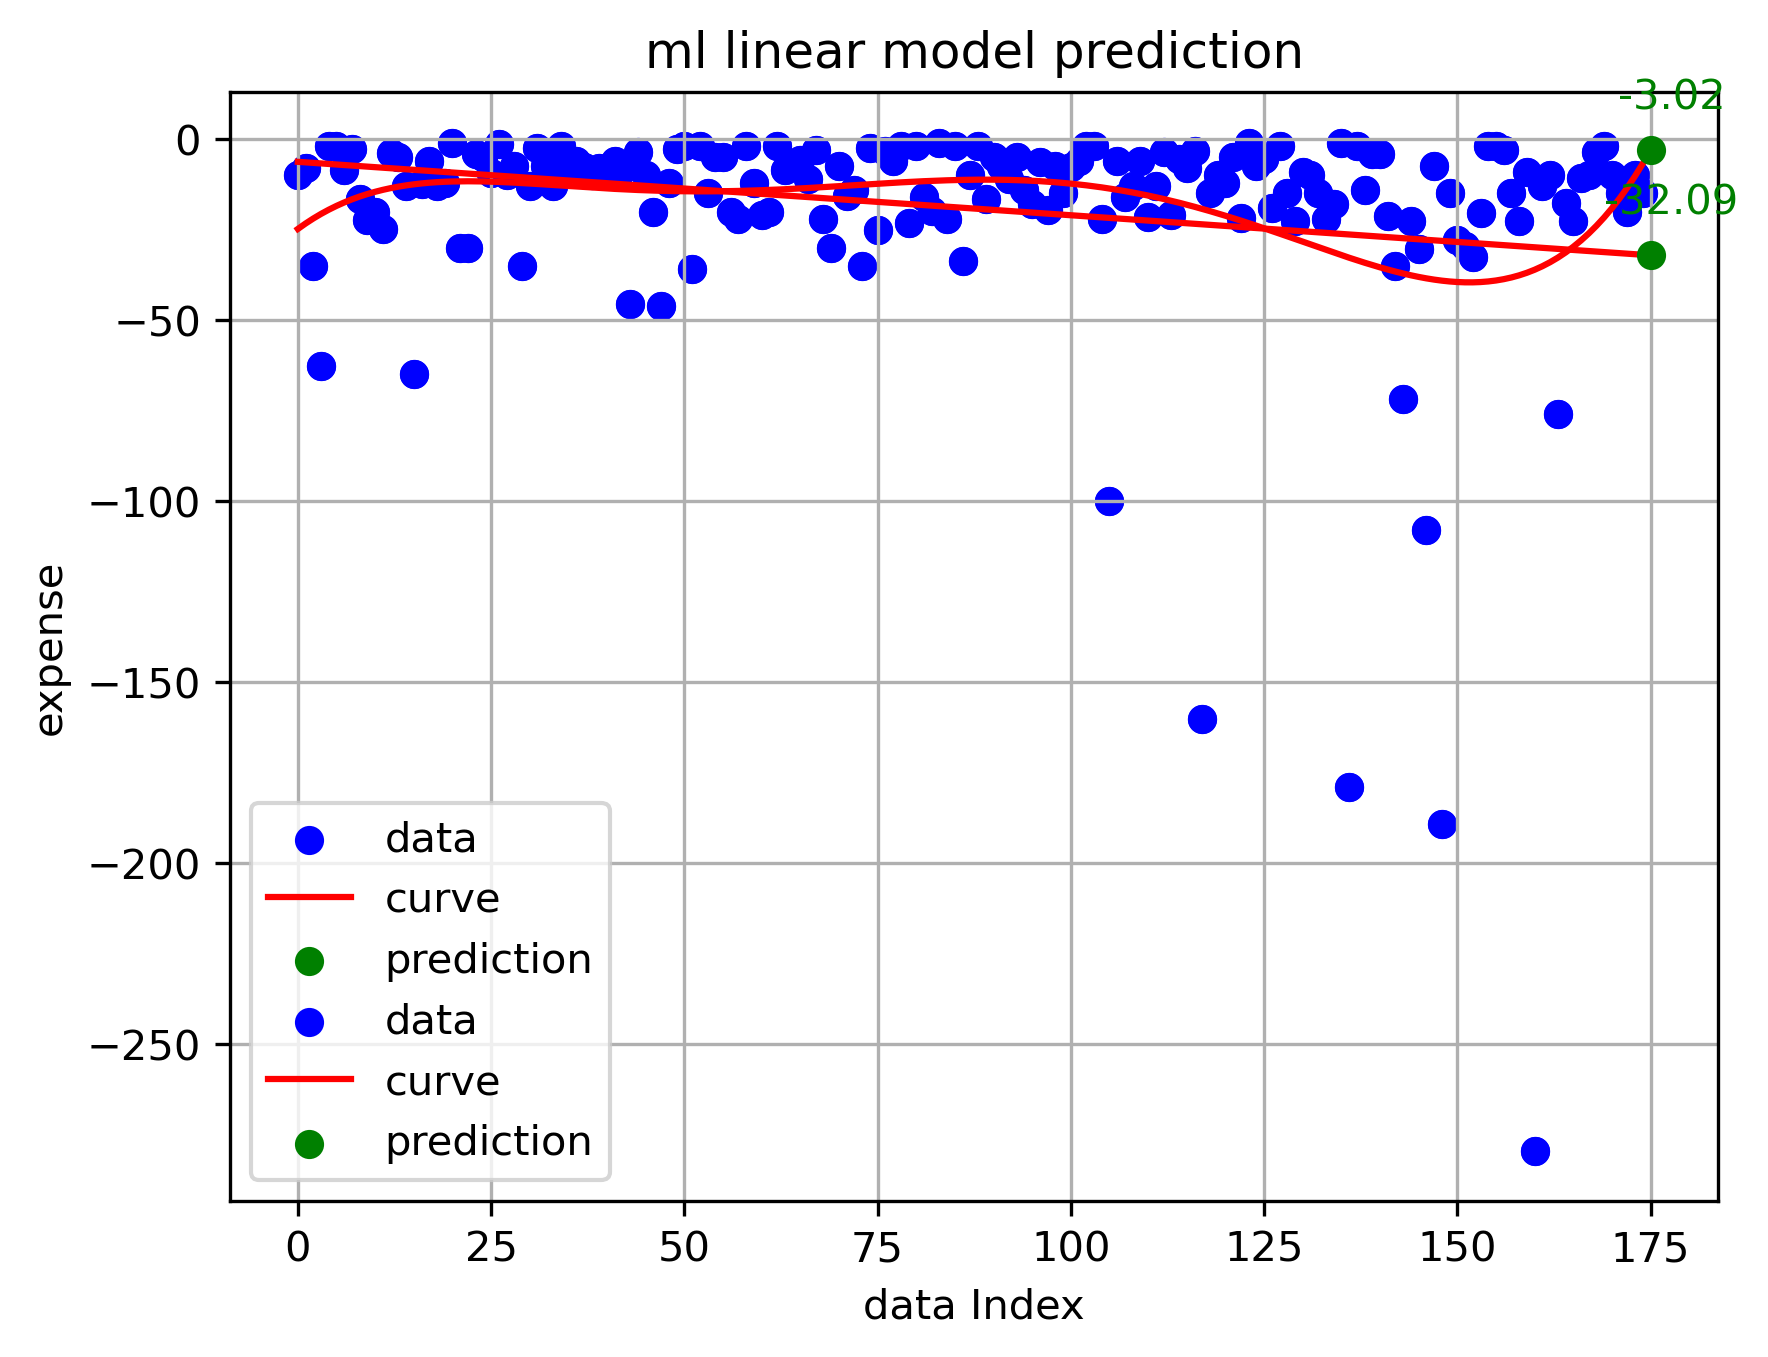
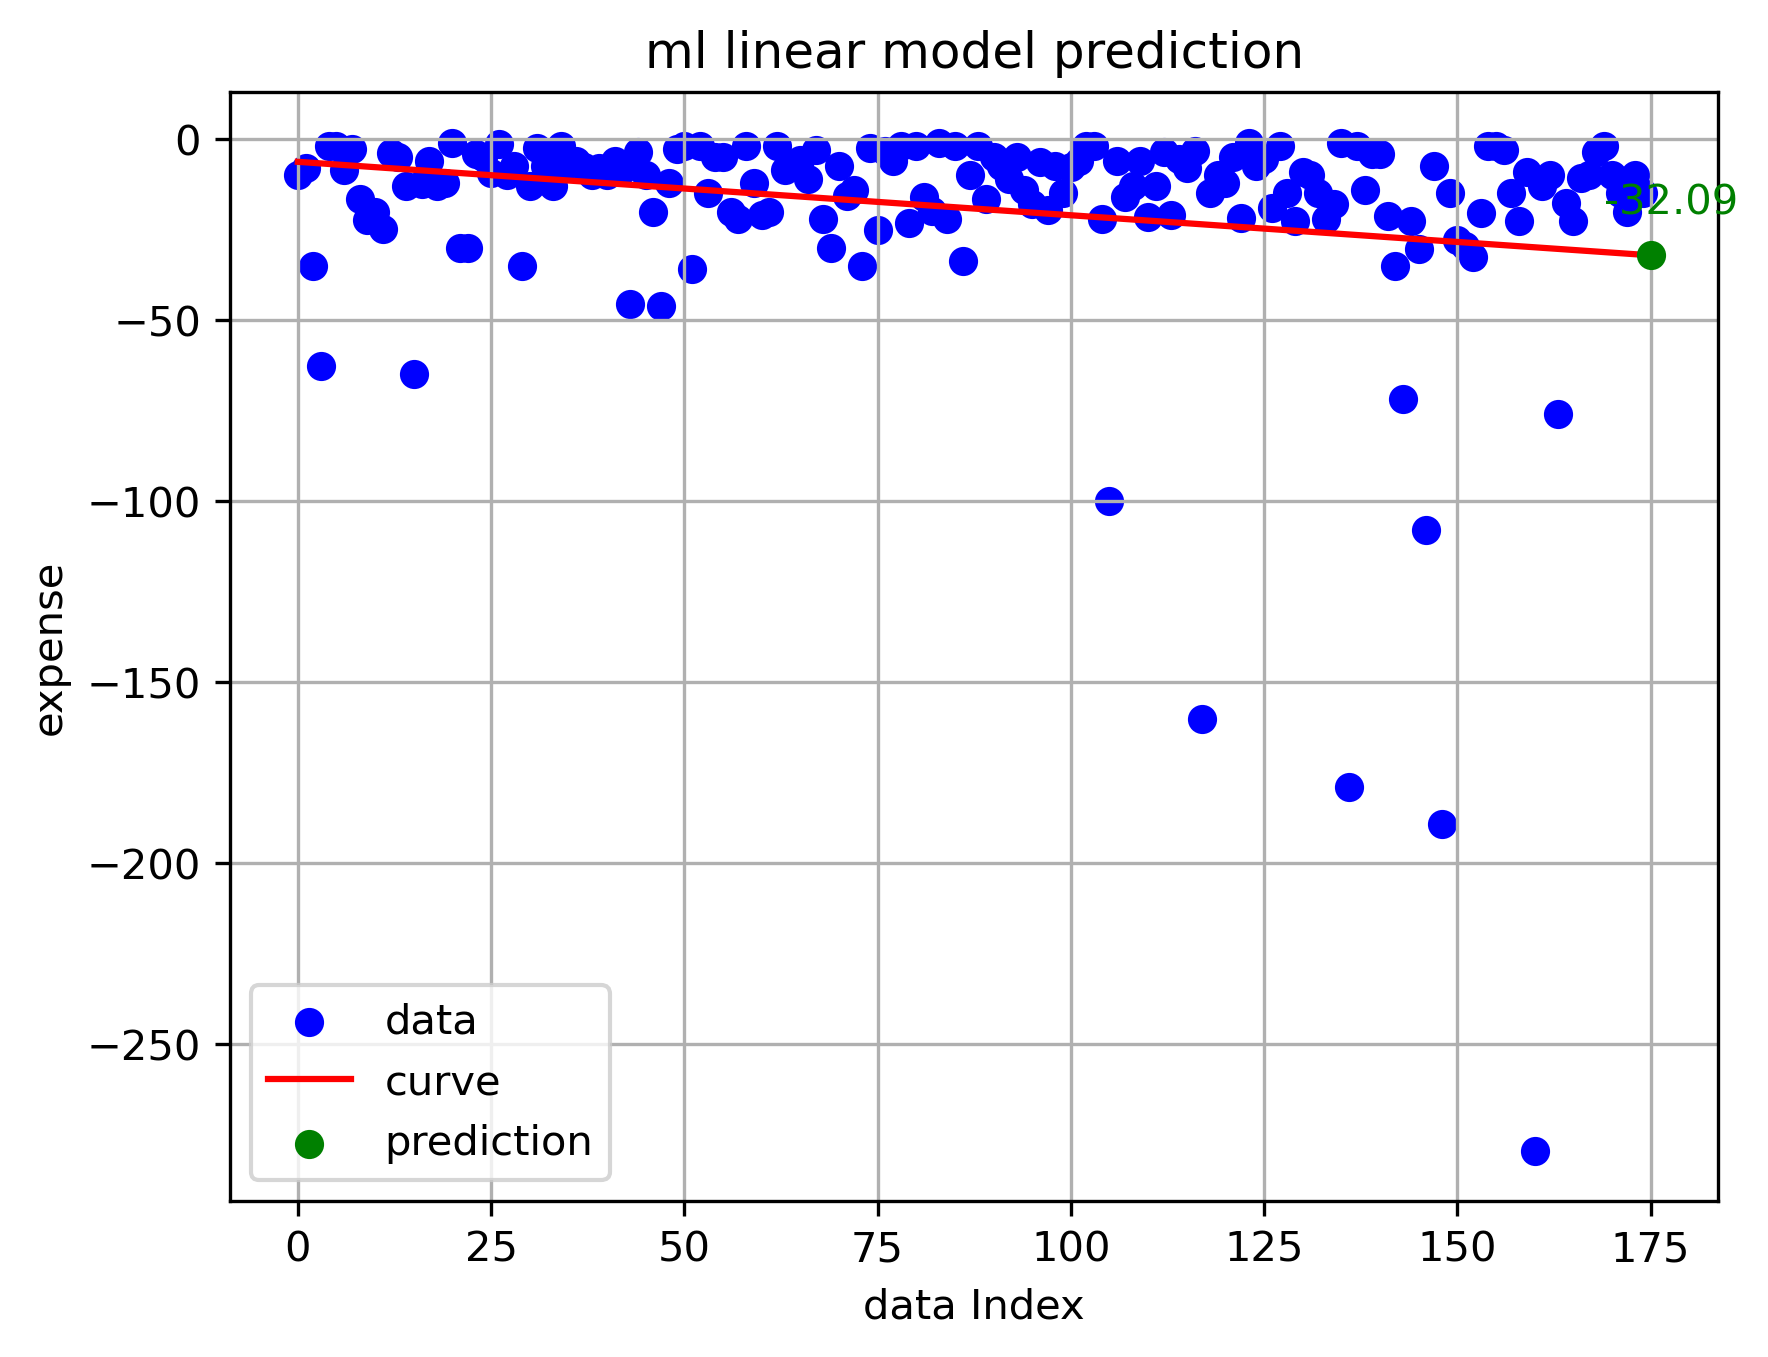
fix: the data overlay issue in the chart

diff --git a/ExpenseAnalysis/expenseAnalysis.py b/ExpenseAnalysis/expenseAnalysis.py
@@ -52,6 +52,9 @@ try:
 
             print(f"多项式拟合预测的下一个消费金额: {next_value:.2f}")
 
+            # **创建新的图表实例**
+            # plt.figure()
+
             # 标注预测值在图表中
             plt.scatter([next_index], [next_value], color='green', label='prediction', zorder=5)
             plt.annotate(f"{next_value:.2f}",
@@ -110,6 +113,9 @@ try:
 
             print(f"ml_lr预测的下一个消费金额: {next_value:.2f}")
 
+            # **创建新的图表实例**
+            plt.figure()
+
             # 绘制数据与预测结果
             plt.scatter(indices, data, color="blue", label="data")
             plt.plot(indices, model.predict(indices), color="red", label="curve")
@@ -166,6 +172,10 @@ try:
             print(f"ml_rf预测的下一个消费金额: {next_value:.2f}")
 
             dense_indices = np.linspace(0, len(data), 500).reshape(-1, 1)
+
+            # **创建新的图表实例**
+            plt.figure()
+
             dense_predictions = model.predict(dense_indices)
 
             plt.scatter(indices, data, color="blue", label="data")
@@ -219,6 +229,9 @@ try:
 
             dense_indices = np.linspace(0, len(data), 500).reshape(-1, 1)
             dense_predictions = model.predict(dense_indices)
+
+            # **创建新的图表实例**
+            plt.figure()
 
             plt.scatter(indices, data, color="blue", label="data")
             plt.plot(dense_indices, dense_predictions, color="red", label="curve")
